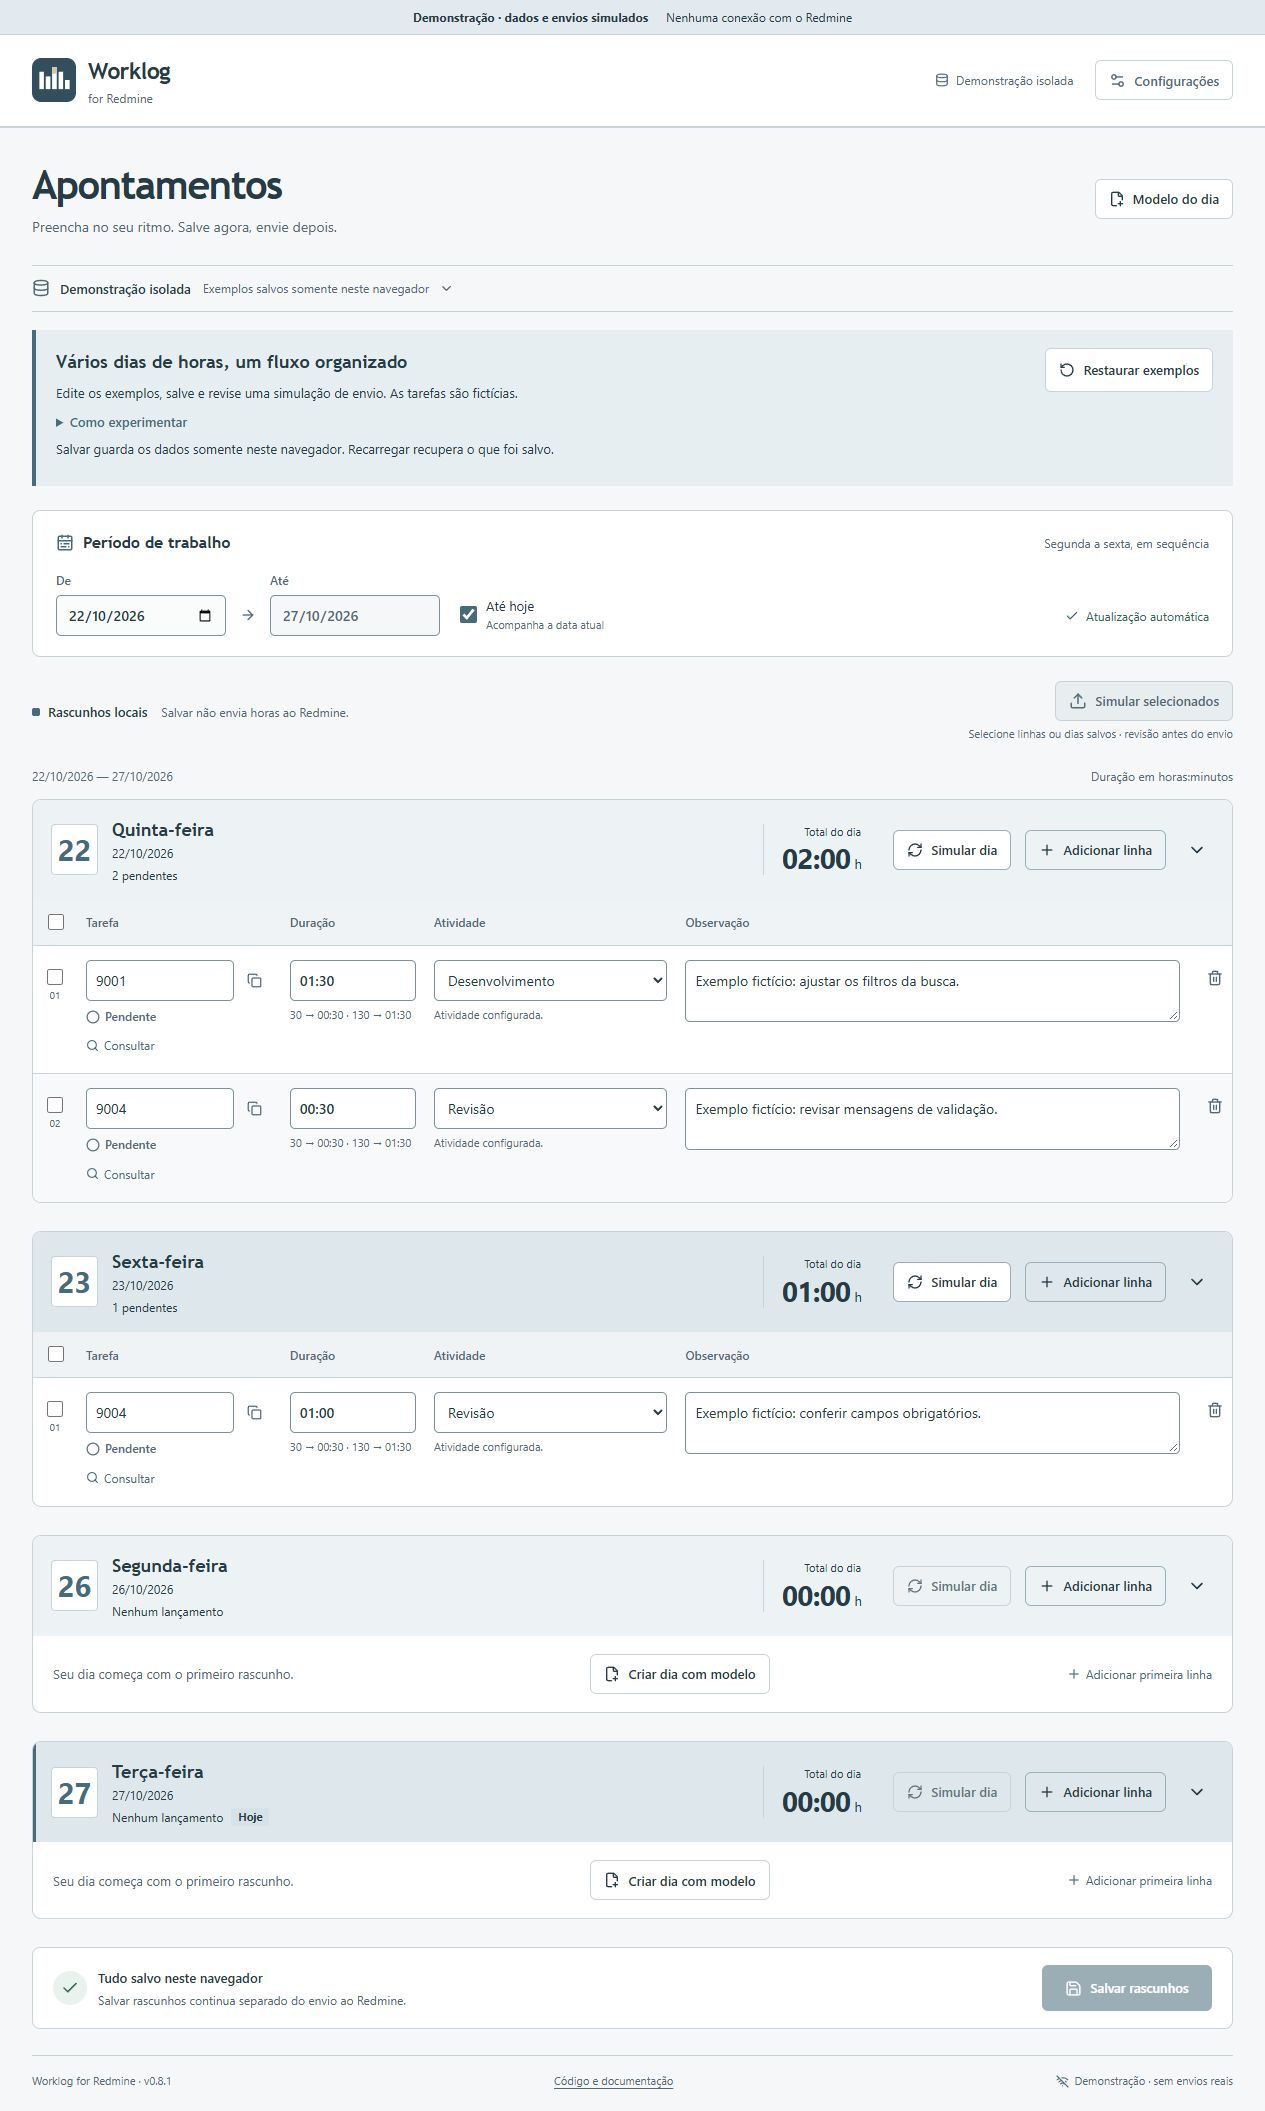
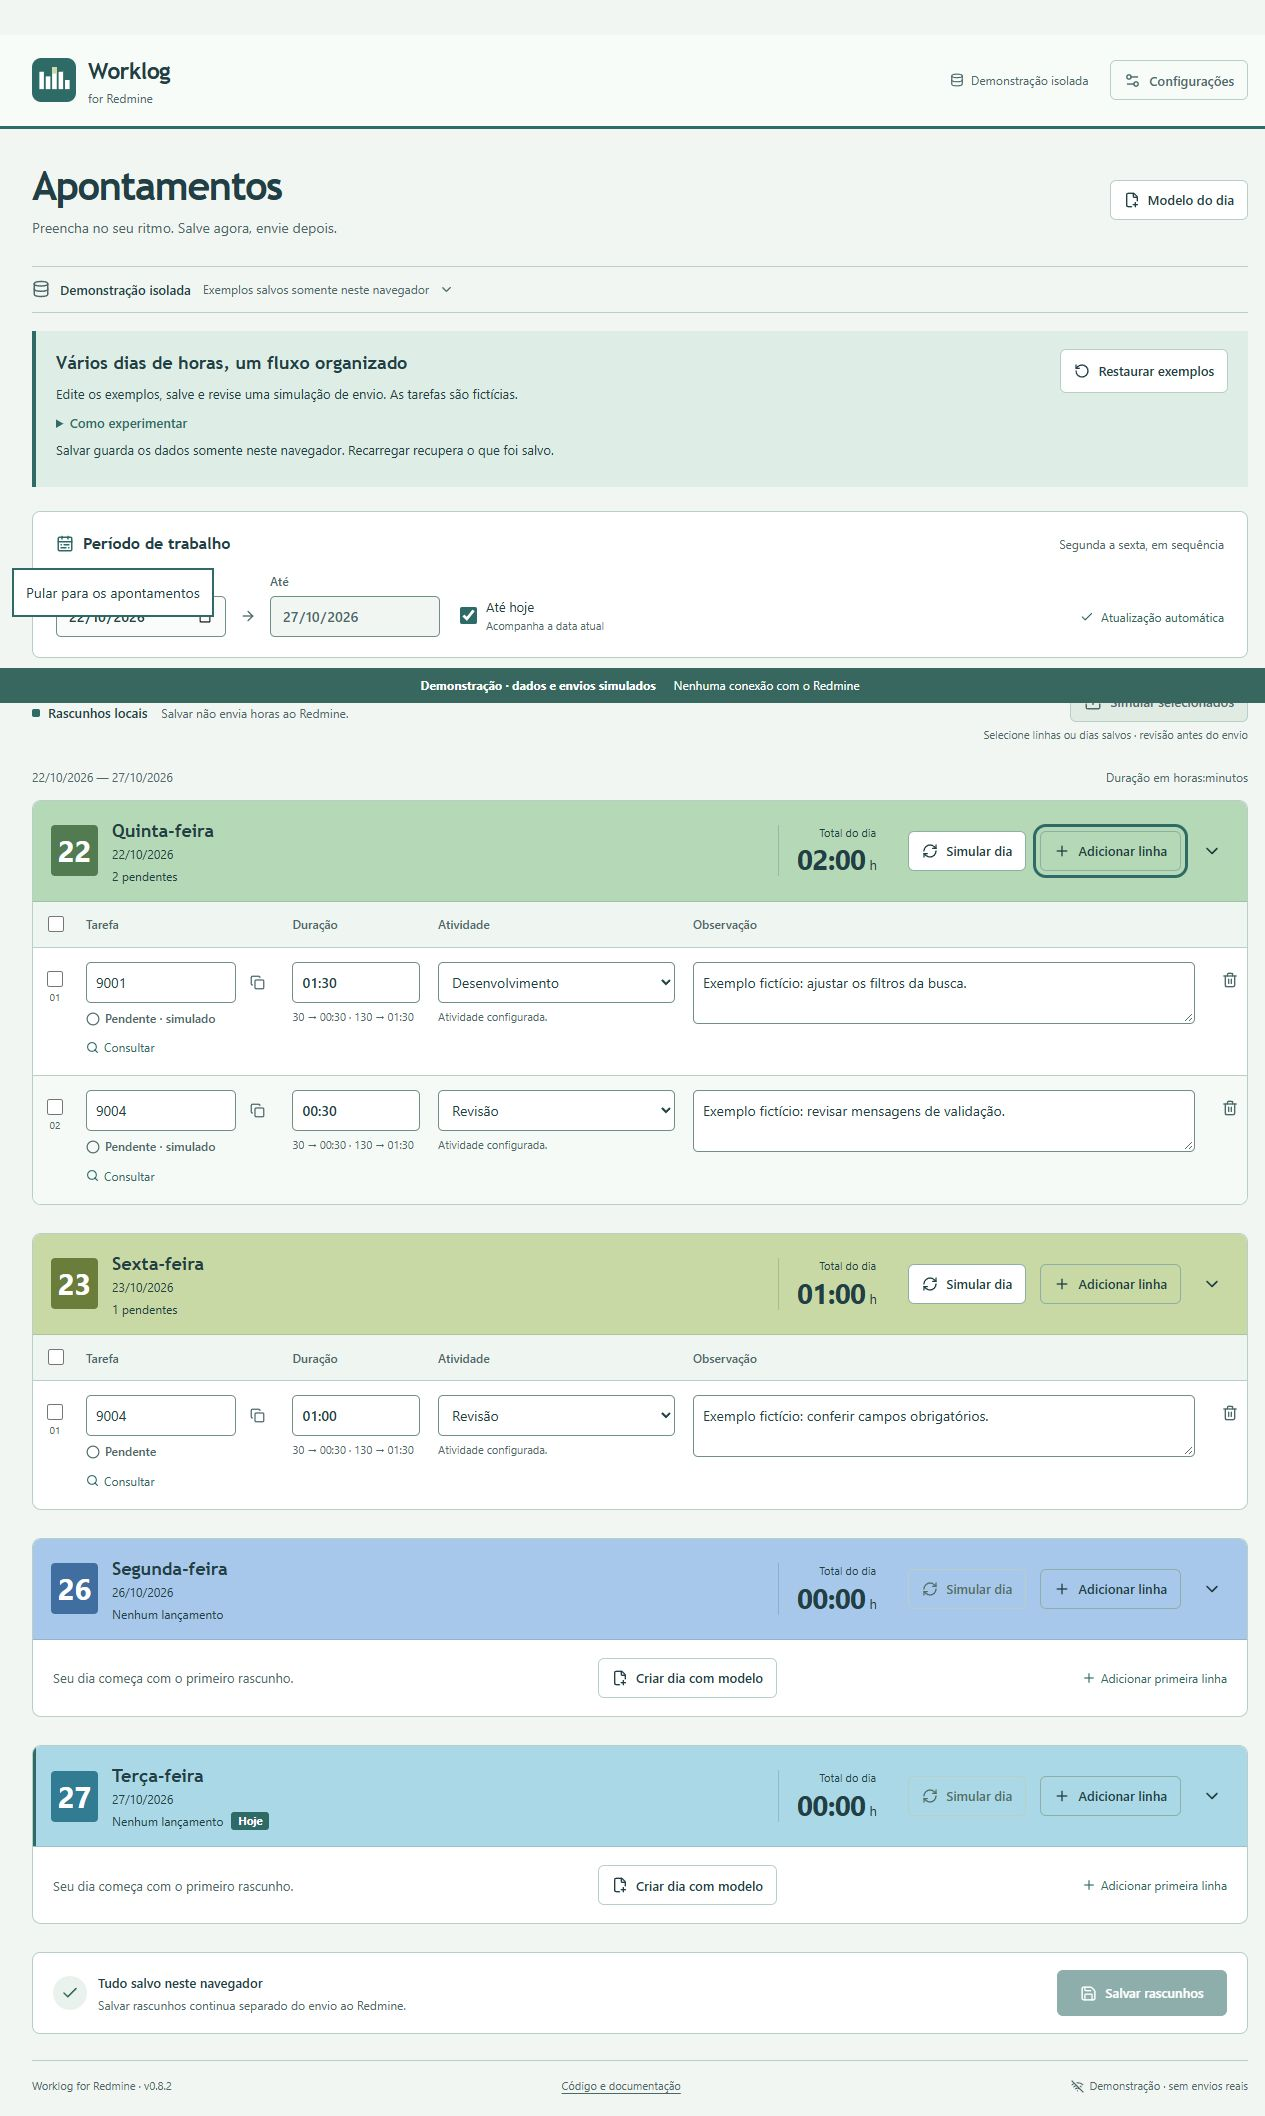
fix(ui): coordinate weekday colors in a balanced blue-green palette

diff --git a/src/client/styles.css b/src/client/styles.css
@@ -1,14 +1,17 @@
 :root {
-  --ink: #273b46;
-  --muted: #536976;
-  --canvas: #f5f7f8;
+  --ink: #223f45;
+  --muted: #4d6869;
+  --canvas: #f1f6f3;
   --paper: #fff;
-  --day-surface: #edf2f4;
-  --day-surface-alternate: #dee7eb;
-  --line: #c8d3d9;
-  --accent: #486b7a;
-  --accent-hover: #365563;
-  --accent-wash: #e6eef2;
+  --monday: #a8c8eb;
+  --tuesday: #aad8e6;
+  --wednesday: #a4d6c9;
+  --thursday: #b5d8b7;
+  --friday: #c9d9a6;
+  --line: #b8cec7;
+  --accent: #2f6b66;
+  --accent-hover: #245550;
+  --accent-wash: #deeee7;
   --success: #316859;
   --success-wash: #eaf2ee;
   --warning: #806037;
@@ -78,8 +81,8 @@ h1, h2, h3 {
 }
 
 .app-header {
-  border-bottom: 2px solid var(--line);
-  background: var(--paper);
+  border-bottom: 3px solid var(--accent);
+  background: #f8fcf9;
 }
 .header-inner {
   max-width: 1280px;
@@ -164,7 +167,7 @@ h1 {
 }
 .secondary:hover:not(:disabled), .quiet:hover:not(:disabled) {
   background: var(--accent-wash);
-  border-color: #99aeb8;
+  border-color: #92b4a9;
 }
 .primary {
   border-color: var(--accent);
@@ -219,7 +222,7 @@ h1 {
   color: var(--danger);
 }
 
-/* Shared accents support actions; alternating bands separate daily groups. */
+/* A shared sea-green accent connects navigation, actions and daily colors. */
 .data-context {
   display: flex;
   align-items: flex-start;
@@ -334,8 +337,8 @@ h1 {
   color: var(--muted);
 }
 .date-field input {
-  background: #fafcfc;
-  border: 1px solid #7c919b;
+  background: #f9fcfa;
+  border: 1px solid #718f86;
   border-radius: 5px;
   padding: 9px 11px;
   color: var(--ink);
@@ -424,15 +427,15 @@ h1 {
 .send-button {
   color: var(--accent);
   background: var(--accent-wash);
-  border-color: #9aafb9;
+  border-color: #8eafa6;
 }
 .send-button:hover:not(:disabled) {
-  background: #dce7ec;
+  background: #d0e6dc;
 }
 .send-button:disabled {
   opacity: 1;
   color: var(--muted);
-  background: #e8edef;
+  background: #e0ebe4;
   border-color: var(--line);
 }
 .days-caption {
@@ -450,17 +453,35 @@ h1 {
   gap: 6px;
 }
 
-/* Alternating bands separate adjacent days without assigning a color to each weekday. */
+/* Neighboring blue/green hues share a similar lightness across the workweek. */
 .day-card {
-  --day-background: var(--day-surface);
+  --day-background: var(--monday);
+  --day-accent: #416ea1;
   border: 1px solid var(--line);
   border-radius: 9px;
   background: var(--paper);
   overflow: hidden;
   margin-bottom: 28px;
 }
-.day-card:nth-child(even) {
-  --day-background: var(--day-surface-alternate);
+.day-card[data-weekday="1"] {
+  --day-background: var(--monday);
+  --day-accent: #416ea1;
+}
+.day-card[data-weekday="2"] {
+  --day-background: var(--tuesday);
+  --day-accent: #317b93;
+}
+.day-card[data-weekday="3"] {
+  --day-background: var(--wednesday);
+  --day-accent: #2f7d6c;
+}
+.day-card[data-weekday="4"] {
+  --day-background: var(--thursday);
+  --day-accent: #537b52;
+}
+.day-card[data-weekday="5"] {
+  --day-background: var(--friday);
+  --day-accent: #6b7d3b;
 }
 .is-today .day-heading {
   box-shadow: inset 3px 0 var(--accent);
@@ -472,6 +493,7 @@ h1 {
   padding: 16px 18px;
   background: var(--day-background);
   color: var(--ink);
+  border-bottom: 1px solid #223f4526;
 }
 .day-date-stamp {
   display: grid;
@@ -479,9 +501,9 @@ h1 {
   width: 47px;
   height: 51px;
   border-radius: 4px;
-  background: var(--paper);
-  border: 1px solid var(--line);
-  color: var(--accent);
+  background: var(--day-accent);
+  border: 1px solid transparent;
+  color: #fff;
   font-size: 29px;
   font-weight: 700;
   line-height: 1;
@@ -518,8 +540,8 @@ h1 {
   font-size: 11px;
   font-weight: 700;
   padding: 1px 7px;
-  color: var(--ink);
-  background: #d5e2e8;
+  color: #fff;
+  background: var(--accent);
   border-radius: 3px;
 }
 .day-total {
@@ -531,7 +553,7 @@ h1 {
   margin-left: auto;
   min-width: 108px;
   padding: 0 18px;
-  border-left: 1px solid var(--line);
+  border-left: 1px solid #223f4533;
 }
 .day-total > span {
   font-size: 11px;
@@ -549,6 +571,9 @@ h1 {
   margin-left: 4px;
   font-weight: 400;
 }
+.is-collapsed .day-heading {
+  border-bottom: 0;
+}
 .day-total.is-partial {
   background: var(--warning-wash);
   color: var(--warning);
@@ -557,7 +582,7 @@ h1 {
 }
 .day-send {
   background: var(--paper);
-  border-color: #9aafb9;
+  border-color: #8eafa6;
   color: var(--ink);
   white-space: nowrap;
 }
@@ -566,7 +591,7 @@ h1 {
 }
 .day-heading .add-line {
   background: transparent;
-  border-color: #9aafb9;
+  border-color: #8eafa6;
   color: var(--ink);
   white-space: nowrap;
 }
@@ -578,7 +603,7 @@ h1 {
   opacity: 1;
   background: transparent;
   border-color: var(--line);
-  color: #637580;
+  color: #526e68;
 }
 .day-toggle {
   width: 34px;
@@ -638,7 +663,7 @@ th {
   font-weight: 600;
   color: var(--muted);
   padding: 11px 9px;
-  background: #f0f3f5;
+  background: #eff5f1;
   border-bottom: 1px solid var(--line);
 }
 td {
@@ -649,7 +674,7 @@ tbody tr + tr {
   border-top: 1px solid var(--line);
 }
 .day-card tbody tr:nth-child(even):not(.is-appropriated):not(.needs-check):not(.is-rejected) {
-  background: #f7f9fa;
+  background: #f5faf7;
 }
 .day-card tbody tr:has(.entry-selector input:checked) {
   background: var(--accent-wash);
@@ -663,7 +688,7 @@ td.row-number {
   padding-top: 23px;
 }
 td input, td textarea, td select {
-  border: 1px solid #7c919b;
+  border: 1px solid #718f86;
   border-radius: 5px;
   width: 100%;
   padding: 9px;
@@ -676,7 +701,7 @@ td input:hover, td textarea:hover, td select:hover {
 }
 td input:disabled, td textarea:disabled, td select:disabled {
   color: var(--muted);
-  background: #f4f7f8;
+  background: #f1f6f3;
   opacity: 1;
 }
 td textarea {
@@ -790,7 +815,7 @@ td select {
 }
 .save-bar.has-pending {
   border: 2px solid var(--accent);
-  box-shadow: 0 4px 18px #273b461a;
+  box-shadow: 0 4px 18px #223f451a;
 }
 .save-status {
   display: flex;
@@ -1013,10 +1038,10 @@ input[aria-invalid="true"], select[aria-invalid="true"] {
   padding: 25px;
   color: var(--ink);
   background: var(--paper);
-  box-shadow: 0 15px 70px #273b4630;
+  box-shadow: 0 15px 70px #223f4530;
 }
 .submission-dialog::backdrop {
-  background: #273b4680;
+  background: #223f4580;
 }
 .submission-heading {
   display: flex;
@@ -1273,9 +1298,9 @@ input[aria-invalid="true"], select[aria-invalid="true"] {
   flex-wrap: wrap;
   gap: 4px 18px;
   padding: 8px 16px;
-  color: var(--ink);
-  background: #e2eaf0;
-  border-bottom: 1px solid var(--line);
+  color: #fff;
+  background: #38675f;
+  border-bottom: 1px solid #38675f;
   font-size: 12px;
 }
 .demo-steps {

diff --git a/index.html b/index.html
@@ -3,7 +3,7 @@
   <head>
     <meta charset="UTF-8" />
     <meta name="viewport" content="width=device-width, initial-scale=1.0" />
-    <meta name="theme-color" content="#486B7A" />
+    <meta name="theme-color" content="#2F6B66" />
     <link rel="icon" type="image/svg+xml" href="/src/client/assets/worklog-mark.svg?no-inline" />
     <meta name="description" content="Organize apontamentos de vários dias, confira os totais e revise antes de enviar ao Redmine. Experimente a demonstração com dados fictícios." />
     <title>Worklog for Redmine</title>

diff --git a/src/client/DaySection.tsx b/src/client/DaySection.tsx
@@ -124,6 +124,7 @@ export function DaySection({
     <section
       ref={section}
       className={`day-card ${day.date === today ? "is-today" : ""} ${appropriation.complete ? "is-appropriated-day" : ""} ${collapsed ? "is-collapsed" : ""}`}
+      data-weekday={new Date(`${day.date}T12:00:00Z`).getUTCDay()}
       aria-label={`Apontamentos de ${description}`}
     >
       <header className="day-heading">

diff --git a/docs/interface.md b/docs/interface.md
@@ -4,18 +4,19 @@ A interface funciona como uma agenda de apontamentos: localizar uma data, preenc
 
 ## Cores com uma função
 
-A paleta usa cinzas frios e um único azul acinzentado nas ações. Os cabeçalhos alternam dois fundos suaves conforme a posição dos dias no período visível, como faixas de uma planilha. Não há mais uma cor associada a cada dia da semana.
+A identidade usa uma família de cores vizinhas, do azul ao verde, com fundos de intensidade moderada e texto escuro. A preferência de Cristian é manter cor e personalidade sem grandes blocos saturados ou uma interface monocromática. A referência a planilhas indicava facilidade para distinguir grupos, não uma exigência de branco e cinza.
 
-| Uso | Cor |
-| --- | --- |
-| Fundo da página | `#F5F7F8` |
-| Área de edição | `#FFFFFF` |
-| Primeiro cabeçalho e demais ímpares | `#EDF2F4` |
-| Segundo cabeçalho e demais pares | `#DEE7EB` |
-| Texto principal | `#273B46` |
-| Ações e foco | `#486B7A` |
+| Dia | Cabeçalho | Detalhe da data |
+| --- | --- | --- |
+| Segunda | Azul `#A8C8EB` | `#416EA1` |
+| Terça | Azul-piscina `#AAD8E6` | `#317B93` |
+| Quarta | Verde-mar `#A4D6C9` | `#2F7D6C` |
+| Quinta | Sálvia `#B5D8B7` | `#537B52` |
+| Sexta | Verde-folha `#C9D9A6` | `#6B7D3B` |
 
-A alternância separa grupos, não resultados. Pendência, simulação, confirmação, rejeição e resultado incerto continuam descritos em texto e nos recibos. O marcador **Hoje** e uma linha lateral discreta identificam a data atual. Recolher ou apropriar um dia não altera a alternância; mudar o início do período pode inverter o tom de uma data.
+O petróleo `#2F6B66` conecta marca, ações, foco e avisos da demo; o fundo claro `#F1F6F3` e as bordas esverdeadas sustentam o conjunto. Os cabeçalhos são avaliados lado a lado, com luminosidade próxima, em vez de escolher cada cor isoladamente. A área de edição clara conserva a legibilidade dos campos.
+
+A cor acompanha o dia da semana, inclusive ao mudar o período ou recolher suas tarefas. A data é interpretada em UTC somente para escolher o tom, sem converter a data de trabalho pelo fuso do navegador. Resultados continuam identificados por texto/recibos; a paleta semanal não representa confirmação ou erro. O marcador **Hoje** complementa a data.
 
 O espaçamento entre dias e as divisórias das tabelas separam os grupos. Linhas alternadas ajudam a acompanhar os campos; seleção e situação dos recibos têm tratamentos próprios. Uma duração inválida mantém a indicação textual de total parcial.
 
@@ -31,7 +32,7 @@ O espaçamento entre dias e as divisórias das tabelas separam os grupos. Linhas
 
 Use a demo e dados fictícios; nunca o banco de uso para preencher capturas. Confira desktop, tablet e 375 px, incluindo:
 
-1. Dias adjacentes, inclusive entre semanas: os dois tons alternam pela posição visível e continuam distintos com as tarefas recolhidas.
+1. Uma semana completa e uma segunda semana: os cinco tons devem formar um conjunto coerente; o mesmo dia da semana mantém sua cor ao mudar o período ou recolher as tarefas.
 2. Edição, duração abreviada/inválida, atividade, total, seleção e botão de salvar. Recolher e reabrir mantém os campos e as edições.
 3. Salvar e recarregar; revisar, cancelar e confirmar uma simulação; expandir um dia apropriado e conferir o recibo.
 4. Modelo, catálogo, avisos e revisão em tela pequena. Somente tabelas largas devem rolar horizontalmente, preservando os campos editáveis.

diff --git a/CHANGELOG.md b/CHANGELOG.md
@@ -12,6 +12,15 @@ Histórico das versões. Criado em 23/10/2026 com a base anterior ao modelo regi
 - Antes de cada commit/merge, ler este arquivo e avaliar uma versão proporcional à entrega. Em 25/10/2026, Cristian delegou ao agente a decisão de versão neste projeto e pediu push automático dos commits coesos, sem nova confirmação rotineira. Não incrementar a versão por commit da mesma entrega. Publicação e dados reais continuam sujeitos ao escopo autorizado.
 - Nunca incluir credenciais, planilhas privadas, bancos, backups ou dados reais nos registros, tags e arquivos distribuídos.
 
+## [0.8.2] — 2026-10-27
+
+### Cor com unidade visual
+
+- Paleta semanal coordenada, do azul ao verde, com cabeçalhos de intensidade moderada e texto escuro. Substitui a alternância monocromática da v0.8.1 e os tons saturados sem relação entre si da v0.8.0. Cada dia mantém sua cor ao mudar o período.
+- Petróleo conecta marca/favicon, navegação, ações, foco e avisos. A data ganha um detalhe mais profundo da mesma família do cabeçalho; campos claros e divisórias preservam a leitura das tarefas. Estados dos recibos continuam explícitos e separados da identidade semanal.
+- Preferência visual documentada: cor e personalidade com tons relacionados e intensidade próxima; a referência a planilhas significava distinguir grupos, sem prescrever branco e cinza. README/captura, guia e instruções atuais acompanham essa direção.
+- 372 testes/29 arquivos, TypeScript, builds local/demo/Pages e auditorias aprovados. Semana completa comparada lado a lado, períodos conferidos e revisão/cancelamento fictícios, teclado/foco e 375 px sem transbordamento da página ou erros de console. Contraste do texto nos cinco cabeçalhos acima de 6:1; executável regenerado como 0.8.2. Sem acesso ao banco de uso ou envio real.
+
 ## [0.8.1] — 2026-10-27
 
 ### Paleta mais suave

diff --git a/AGENTS.md b/AGENTS.md
@@ -22,7 +22,7 @@
 
 ## Catalog, days and templates
 
-- v0.8.1 supersedes the saturated weekday colors: use two soft alternating header backgrounds by visible position and one muted accent throughout the interface, independent of receipt status. Preserve textual dates/status, today's marker and disclosure behavior. Shared brand/favicon is a passive SVG; include it in artifact auditing and launcher build fingerprints. System font fallbacks require no network. See `docs/interface.md` for tokens and visual checks.
+- v0.8.2 uses a coordinated blue-to-green weekday palette with medium-light colored headers and a shared sea-green accent. Cristian wants visible color/personality with related hues and moderate intensity; the spreadsheet reference meant easy day separation, not monochrome gray. Keep weekday colors stable across periods and independent of receipt status. Preserve textual dates/status, today's marker and disclosure behavior. Shared brand/favicon is a passive SVG; include it in artifact auditing and launcher build fingerprints. System font fallbacks require no network. See `docs/interface.md` for tokens and visual checks.
 
 - On 2026-10-26 Cristian requested weekday-only display (Monday–Friday), fully appropriated days initially collapsed, and names only in activity selectors. Keep calendar/storage APIs compatible with historical weekend data; never delete/migrate those rows. Explicit disclosure choices win for the current page; partial/uncertain/empty days start expanded. Preserve numeric activity IDs in configuration, receipt snapshots, review and submission; remove them only from selector labels/hints. New/restored demo examples use previous weekdays, without rewriting an existing visitor snapshot.
 

diff --git a/README.md b/README.md
@@ -9,7 +9,7 @@ Organize several days of time-entry drafts, check daily totals, and explicitly r
 
 The interface is in Brazilian Portuguese. This overview is in English; the detailed product guides are in Portuguese. The demo uses fictional data and simulated submissions. No account, Redmine key or installation is required.
 
-![Worklog with soft alternating day headers and fictional time-entry drafts](docs/images/demo.png)
+![Worklog with coordinated blue-green weekday headers and fictional time-entry drafts](docs/images/demo.png)
 
 ## Try it in a few minutes
 
@@ -22,7 +22,7 @@ The interface is in Brazilian Portuguese. This overview is in English; the detai
 ## What it does
 
 - A free date range showing Monday–Friday, with stacked days and a duration total per day. Historical weekend data stays stored.
-- Soft alternating day headers, clear row separation and a shared vector brand/favicon. Dates and receipt states remain readable without relying on color. [Interface decisions](docs/interface.md).
+- Coordinated blue-green weekday headers, clear row separation and a shared vector brand/favicon. Dates and receipt states remain readable without relying on color. [Interface decisions](docs/interface.md).
 - Fully appropriated days start collapsed; pending or uncertain days stay expanded. You can expand/collapse any day.
 - Compact duration input: `30` → `00:30`, `130` → `01:30`; integer minutes internally.
 - One activity catalog, available before looking up a task; selectors show names only. IDs remain available in settings and submission review.

diff --git a/CONTRIBUTING.md b/CONTRIBUTING.md
@@ -8,7 +8,7 @@ Use Node.js 24.20 or newer within 24.x and `npm ci`. No API key or private datab
 
 Run the checks from the README before a pull request. The Pages build has a different base path; check it even if the root demo preview works. Manually verify changed interactions, including keyboard use and a narrow viewport. The test suite uses Vitest; BDD/Cucumber and tests that only mirror implementation are not required.
 
-For presentation changes, follow the [interface guide](docs/interface.md): shared color tokens, alternating day bands, passive SVG brand, local font fallbacks and fictional screenshot data. Keep day grouping separate from receipt status and verify both root and Pages asset paths.
+For presentation changes, follow the [interface guide](docs/interface.md): shared color tokens, coordinated weekday colors, passive SVG brand, local font fallbacks and fictional screenshot data. Keep day grouping separate from receipt status and verify both root and Pages asset paths.
 
 ## Issues and pull requests
 
